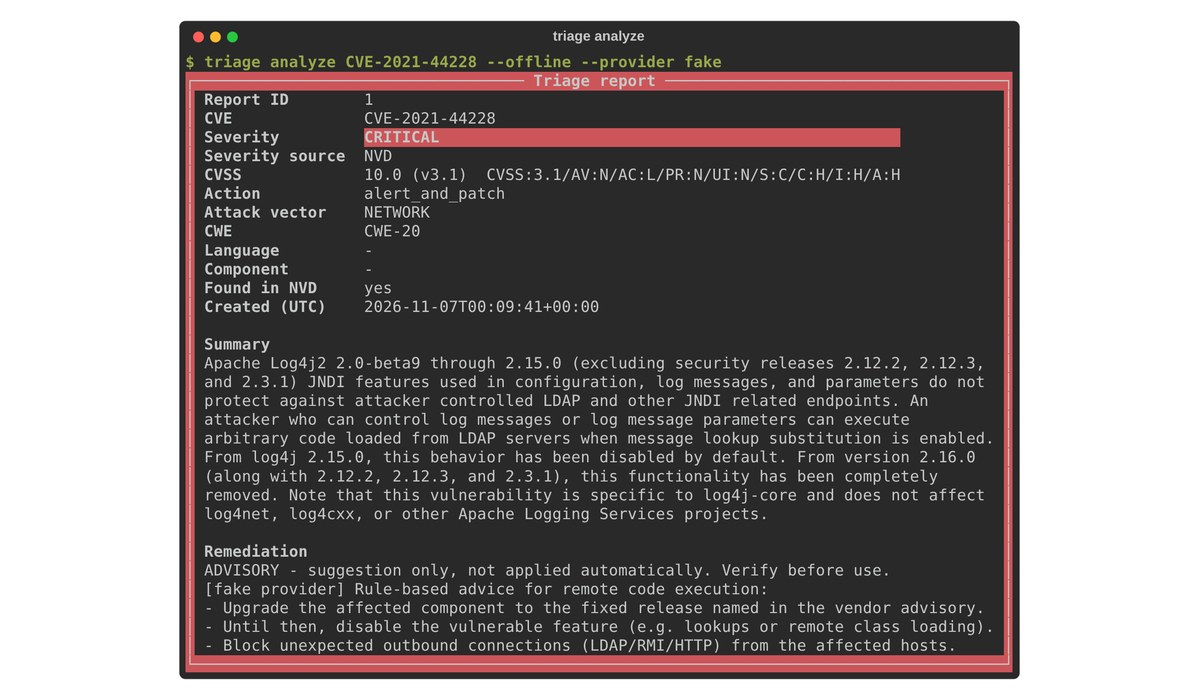
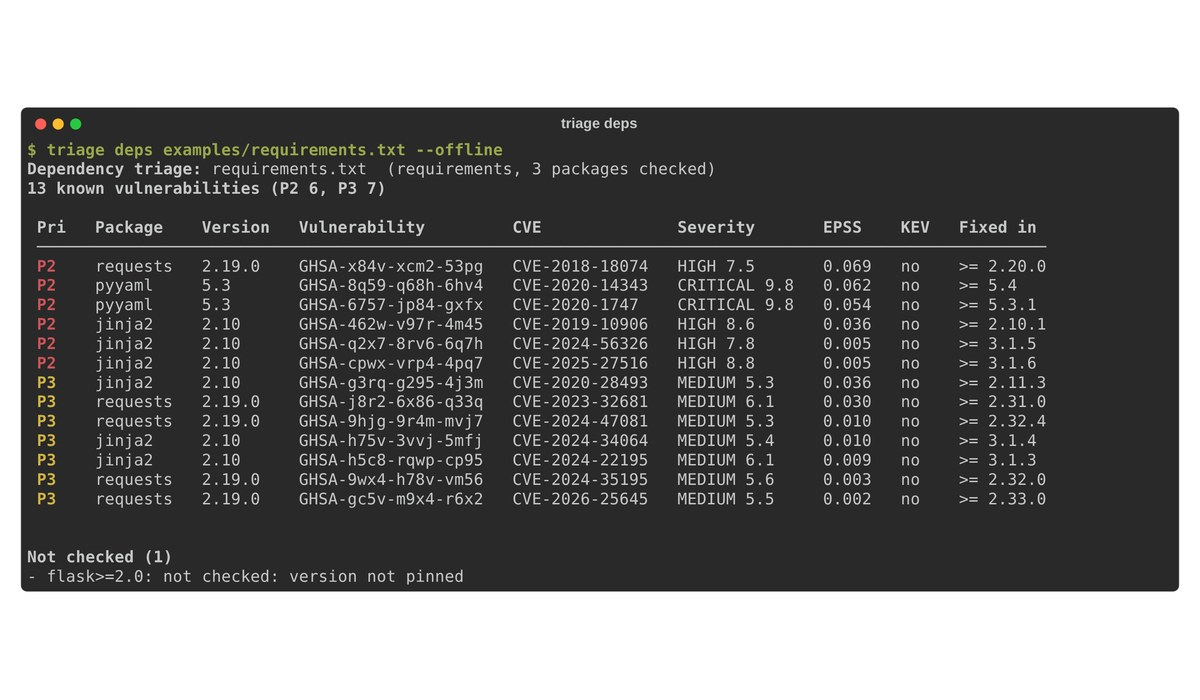
Update the CVE Triage Agent card for v2
Exploit-aware priority (KEV, EPSS), dependency scanning, GitHub Action
demo PR and the 300-CVE evaluation. New card image and PR-comment
screenshot in the detail view.

Claude-Session: https://claude.ai/code/session_019y3JoAh4oJwn7cHu26Sif5

diff --git a/assets/js/projects.js b/assets/js/projects.js
@@ -41,21 +41,26 @@ window.PORTFOLIO = {
       id: "cve-triage",
       featured: true,
       title: "CVE Triage Agent",
-      subtitle: "LLM agent for vulnerability triage",
+      subtitle: "What should I patch first?",
       year: "2026",
       context: "Personal project · solo",
       categories: ["security", "ai"],
       image: "assets/images/projects/cve-triage.jpg",
+      gallery: ["assets/images/projects/cve-pr-comment.png"],
       summary:
-        "A LangGraph agent that takes a CVE ID, a vulnerability description or a code snippet and returns a structured triage decision (severity, route, advisory fix). NVD data takes precedence over LLM guesses, untrusted input is never executed, and it runs fully offline.",
+        "Triages a CVE ID, a vulnerability report, a code snippet or a whole dependency file, and ranks every finding by priority: CISA KEV (known exploited), EPSS (likely to be exploited) and CVSS severity, combined by fixed rules, never by the LLM. Runs offline, as a CLI, an MCP server, and a GitHub Action that comments on pull requests.",
       highlights: [
-        "8-node graph: classify input → enrich from NVD → LLM extraction → resolve severity → alert, human review or archive",
-        "Safety by design: a cited CVE can raise severity but never lower it, MEDIUM goes to a human, and failures fall back to review",
-        "Hardened against prompt injection: input is wrapped as untrusted data, nothing is executed, SQL is parameterised",
-        "177 tests, ruff + mypy --strict in CI, and an honest evaluation on 35 labelled items (80% correct routing, every miss an over-escalation)",
+        "Scans requirements.txt, npm lockfiles and SBOMs through OSV.dev; upgrade advice comes only from OSV's fixed versions, never from the model",
+        "Evaluated on 300 recent CVEs against trivial baselines: gpt-oss-120b lands within one severity level 86% of the time, a local 3B model 69%, with the failures reported openly",
+        "Finding: only 3 of those 300 recent CVEs reach an EPSS of 0.10, so for new vulnerabilities priority comes from KEV and severity",
+        "Resistant to prompt injection, never executes analysed code; 665 tests, CI, and a real demo PR showing the Action's comment",
       ],
-      tech: ["Python", "LangGraph", "LangChain", "Pydantic", "SQLite", "NVD API"],
-      links: [{ label: "Code", url: "https://github.com/JMJJ-projects/cve-triage-agent" }],
+      tech: ["Python", "LangGraph", "LangChain", "SQLite", "GitHub Actions", "MCP"],
+      links: [
+        { label: "Code", url: "https://github.com/JMJJ-projects/cve-triage-agent" },
+        { label: "Demo PR", url: "https://github.com/JMJJ-projects/cve-triage-agent/pull/2" },
+        { label: "Evaluation", url: "https://github.com/JMJJ-projects/cve-triage-agent/blob/main/docs/eval_results.md" },
+      ],
     },
     {
       id: "stockagecloud",

diff --git a/assets/js/projects.fr.js b/assets/js/projects.fr.js
@@ -23,6 +23,8 @@ window.PORTFOLIO_FR = {
     "Play": "Jouer",
     "Poster": "Poster",
     "Benchmark results": "Résultats du benchmark",
+    "Demo PR": "PR de démo",
+    "Evaluation": "Évaluation",
   },
 
   projects: {
@@ -40,15 +42,15 @@ window.PORTFOLIO_FR = {
       ],
     },
     "cve-triage": {
-      subtitle: "Agent LLM de triage de vulnérabilités",
+      subtitle: "Que faut-il corriger en premier ?",
       context: "Projet personnel · seul",
       summary:
-        "Un agent LangGraph qui prend un identifiant CVE, une description de vulnérabilité ou un extrait de code et renvoie une décision de triage structurée (sévérité, orientation, correctif conseillé). Les données NVD priment sur les suppositions du LLM, l'entrée non fiable n'est jamais exécutée, et tout fonctionne hors ligne.",
+        "Analyse un identifiant CVE, un rapport de vulnérabilité, un extrait de code ou tout un fichier de dépendances, et classe chaque problème par priorité : CISA KEV (exploitée), EPSS (probabilité d'exploitation) et sévérité CVSS, combinés par des règles fixes, jamais par le LLM. Fonctionne hors ligne, en CLI, comme serveur MCP, et comme GitHub Action qui commente les pull requests.",
       highlights: [
-        "Graphe de 8 nœuds : classification de l'entrée → enrichissement NVD → extraction par LLM → sévérité → alerte, revue humaine ou archivage",
-        "Sûr par conception : une CVE citée peut augmenter la sévérité mais jamais la baisser, le niveau MEDIUM part en revue humaine, et toute erreur aboutit à une revue",
-        "Protégé contre l'injection de prompt : l'entrée est traitée comme une donnée non fiable, rien n'est exécuté, le SQL est paramétré",
-        "177 tests, ruff + mypy --strict en intégration continue, et une évaluation honnête sur 35 cas étiquetés (80 % d'orientations correctes, toutes les erreurs étant des sur-escalades)",
+        "Analyse requirements.txt, les lockfiles npm et les SBOM via OSV.dev ; les conseils de mise à jour viennent uniquement des versions corrigées d'OSV, jamais du modèle",
+        "Évalué sur 300 CVE récentes face à des baselines triviales : gpt-oss-120b tombe à un niveau de sévérité près dans 86 % des cas, un modèle local 3B dans 69 %, erreurs présentées sans fard",
+        "Constat : seules 3 de ces 300 CVE récentes atteignent un EPSS de 0,10 ; pour les vulnérabilités récentes, la priorité vient donc de KEV et de la sévérité",
+        "Résiste à l'injection de prompt, n'exécute jamais le code analysé ; 665 tests, intégration continue, et une vraie PR de démonstration montrant le commentaire de l'Action",
       ],
     },
     stockagecloud: {

diff --git a/index.html b/index.html
@@ -13,7 +13,7 @@
   <link rel="preconnect" href="https://fonts.googleapis.com">
   <link rel="preconnect" href="https://fonts.gstatic.com" crossorigin>
   <link href="https://fonts.googleapis.com/css2?family=Crimson+Pro:ital,wght@0,500;0,600;0,700;1,500&family=Inter:wght@400;500;600&display=swap" rel="stylesheet">
-  <link rel="stylesheet" href="assets/css/site.css?v=20261107c">
+  <link rel="stylesheet" href="assets/css/site.css?v=20261108">
   <script>
     // Apply saved theme/language before first paint to avoid a flash.
     (function () {
@@ -161,9 +161,9 @@
     <div id="dlg-body"></div>
   </dialog>
 
-  <script src="assets/js/i18n.js?v=20261107c"></script>
-  <script src="assets/js/projects.js?v=20261107c"></script>
-  <script src="assets/js/projects.fr.js?v=20261107c"></script>
-  <script src="assets/js/site.js?v=20261107c"></script>
+  <script src="assets/js/i18n.js?v=20261108"></script>
+  <script src="assets/js/projects.js?v=20261108"></script>
+  <script src="assets/js/projects.fr.js?v=20261108"></script>
+  <script src="assets/js/site.js?v=20261108"></script>
 </body>
 </html>
